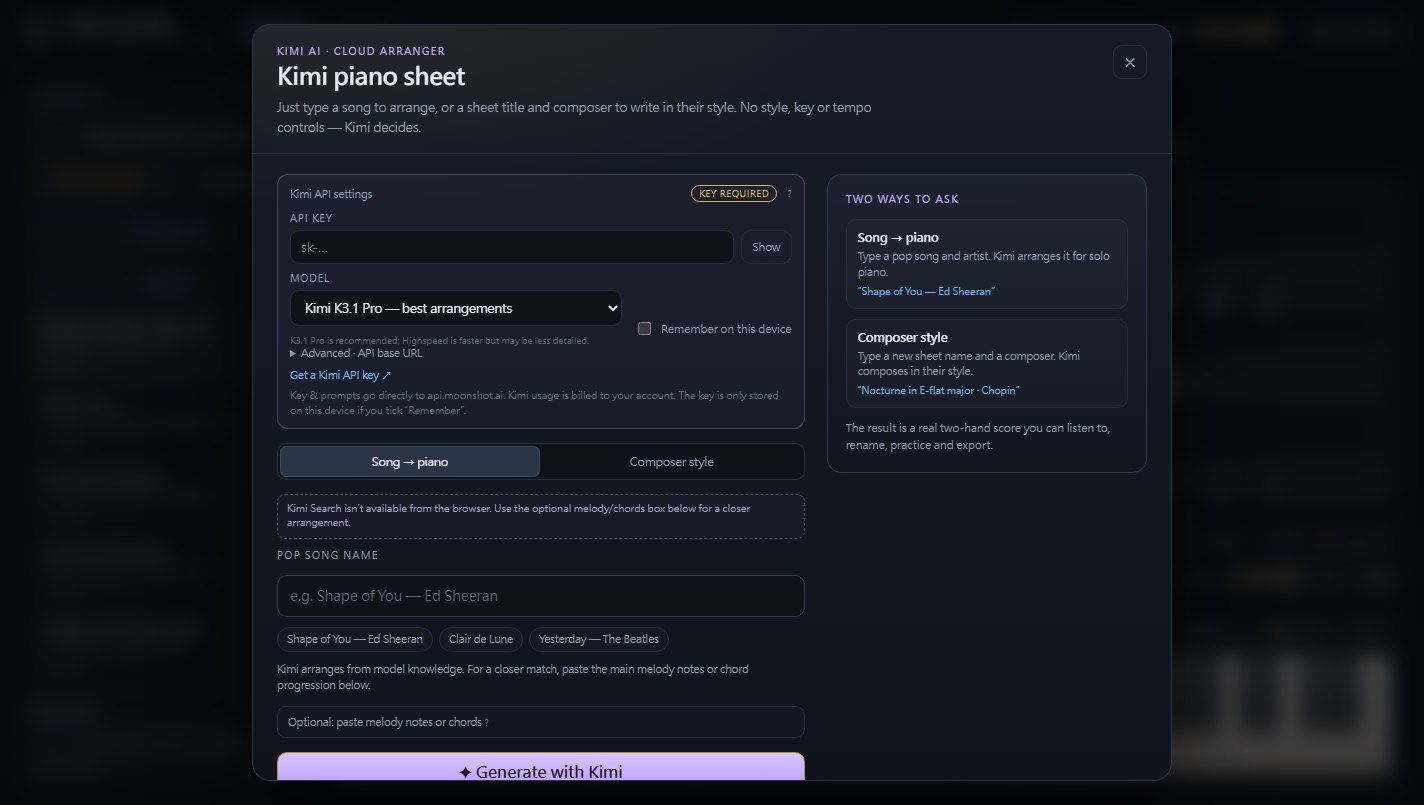
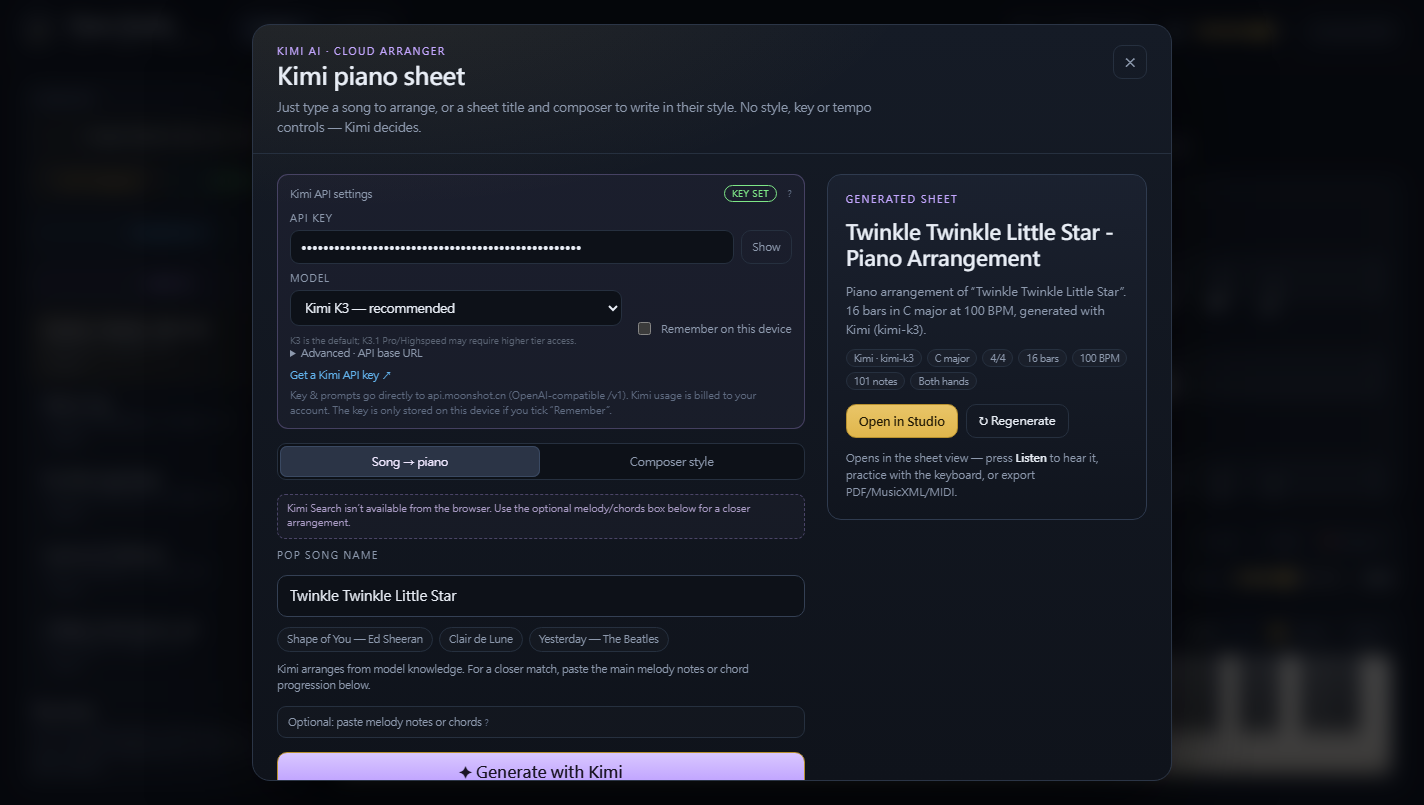
Configure Kimi for api.moonshot.cn and working K3 default
- Point Kimi at the OpenAI-compatible api.moonshot.cn/v1 endpoint
- Normalize Anthropic /anthropic/v1/messages URLs to /v1 because that endpoint
  is not browser-CORS-accessible
- Default to Kimi K3, which works with standard keys; keep K3.1 Pro/Highspeed
  and K2.6 selectable (K3.1 returned 429 on the test account)
- Longer Kimi timeout and lower reasoning effort
- Live-verified generation: 16-bar, 101-note Twinkle arrangement; 212 tests
- Updated screenshots, checksums and signed Android 1.1.0 artifacts

diff --git a/src/music/ai/kimi.ts b/src/music/ai/kimi.ts
@@ -15,18 +15,35 @@ import {
 
 export { DeepSeekError };
 
-export const KIMI_DEFAULT_BASE_URL = 'https://api.moonshot.ai/v1';
+export const KIMI_DEFAULT_BASE_URL = 'https://api.moonshot.cn/v1';
 
 export const KIMI_MODELS: ReadonlyArray<{ value: string; label: string }> = [
-  { value: 'kimi-k3.1-pro', label: 'Kimi K3.1 Pro — best arrangements' },
+  { value: 'kimi-k3', label: 'Kimi K3 — recommended' },
   { value: 'kimi-k3.1-pro-highspeed', label: 'Kimi K3.1 Pro Highspeed — faster' },
-  { value: 'kimi-k3', label: 'Kimi K3 — previous flagship' },
+  { value: 'kimi-k3.1-pro', label: 'Kimi K3.1 Pro — maximum detail (slower)' },
+  { value: 'kimi-k2.6', label: 'Kimi K2.6 — legacy' },
 ];
 
-export const KIMI_DEFAULT_MODEL = 'kimi-k3.1-pro';
+export const KIMI_DEFAULT_MODEL = 'kimi-k3';
 
 export type KimiConfig = DeepSeekConfig;
 export type KimiComposeOptions = DeepSeekComposeOptions;
+
+/**
+ * Kimi's Anthropic-compatible `/anthropic/v1/messages` endpoint is not
+ * browser-CORS-enabled. If that URL is pasted, use the equivalent
+ * OpenAI-compatible `/v1` base so browser generation still works.
+ */
+export function normalizeKimiBaseUrl(baseUrl: string | undefined): string {
+  const trimmed = baseUrl?.trim();
+  if (!trimmed) return KIMI_DEFAULT_BASE_URL;
+  const base = trimmed.replace(/\/+$/, '');
+  if (base.includes('/anthropic/')) {
+    const origin = /^(https?:\/\/[^/]+)/.exec(base)?.[1];
+    if (origin) return `${origin}/v1`;
+  }
+  return base;
+}
 
 export async function composeWithKimi(
   prompt: string,
@@ -36,7 +53,11 @@ export async function composeWithKimi(
 ): Promise<Awaited<ReturnType<typeof composeWithDeepSeek>>> {
   return composeWithDeepSeek(
     prompt,
-    { ...config, baseUrl: config.baseUrl?.trim() || KIMI_DEFAULT_BASE_URL },
+    {
+      ...config,
+      model: config.model?.trim() || KIMI_DEFAULT_MODEL,
+      baseUrl: normalizeKimiBaseUrl(config.baseUrl),
+    },
     options,
     externalSignal,
     'kimi',
@@ -44,8 +65,7 @@ export async function composeWithKimi(
 }
 
 function searchEndpointFor(baseUrl: string | undefined): string {
-  let base = (baseUrl?.trim() || KIMI_DEFAULT_BASE_URL).replace(/\/+$/, '');
-  base = base.replace(/\/chat\/completions$/, '');
+  const base = normalizeKimiBaseUrl(baseUrl).replace(/\/+$/, '');
   if (base.endsWith('/v1')) return `${base}/tools/search`;
   return `${base}/v1/tools/search`;
 }

diff --git a/src/music/ai/kimi.test.ts b/src/music/ai/kimi.test.ts
@@ -4,6 +4,7 @@ import {
   KIMI_DEFAULT_MODEL,
   DeepSeekError,
   composeWithKimi,
+  normalizeKimiBaseUrl,
   searchKimiReferences,
 } from './kimi';
 
@@ -73,13 +74,23 @@ describe('composeWithKimi', () => {
     expect(result.score.notes.length).toBeGreaterThan(20);
   });
 
-  it('defaults to Kimi K3.1 Pro', async () => {
+  it('defaults to Kimi K3', async () => {
     const fetchMock = mockChat(JSON.stringify(makeScoreJson()));
     const result = await composeWithKimi('Compose something.', { apiKey: 'sk-kimi-test' });
     const [, init] = fetchMock.mock.calls[0] as unknown as [string, RequestInit];
     const body = JSON.parse(init.body as string) as { model: string };
     expect(body.model).toBe(KIMI_DEFAULT_MODEL);
     expect(result.meta.model).toBe(KIMI_DEFAULT_MODEL);
+  });
+
+  it('normalizes an Anthropic Messages URL to the browser-safe OpenAI endpoint', () => {
+    expect(normalizeKimiBaseUrl('https://api.moonshot.cn/anthropic/v1/messages')).toBe(
+      'https://api.moonshot.cn/v1',
+    );
+    expect(normalizeKimiBaseUrl('https://api.moonshot.ai/v1')).toBe(
+      'https://api.moonshot.ai/v1',
+    );
+    expect(normalizeKimiBaseUrl(undefined)).toBe(KIMI_DEFAULT_BASE_URL);
   });
 
   it('maps Kimi API errors', async () => {

diff --git a/src/music/ai/deepseek.ts b/src/music/ai/deepseek.ts
@@ -507,7 +507,10 @@ export async function composeWithDeepSeek(
   const endpoint = endpointFor(config.baseUrl);
 
   const controller = new AbortController();
-  const timeout = window.setTimeout(() => controller.abort(), 180_000);
+  const timeout = window.setTimeout(
+    () => controller.abort(),
+    provider === 'kimi' ? 360_000 : 180_000,
+  );
   const onExternalAbort = () => controller.abort();
   externalSignal?.addEventListener('abort', onExternalAbort);
 
@@ -525,7 +528,7 @@ export async function composeWithDeepSeek(
           messages,
           response_format: { type: 'json_object' },
           max_completion_tokens: 32768,
-          ...(model.startsWith('kimi-k3.1') ? { reasoning_effort: 'low' } : {}),
+          ...(model.startsWith('kimi-k3') ? { reasoning_effort: 'low' } : {}),
           stream: false,
         }
       : {

diff --git a/src/music/ai/cloudProviders.ts b/src/music/ai/cloudProviders.ts
@@ -76,14 +76,14 @@ export const CLOUD_PROVIDERS: Record<CloudProviderId, CloudProviderConfig> = {
     subtitle:
       'Just type a song to arrange, or a sheet title and composer to write in their style. No style, key or tempo controls — Kimi decides.',
     keyLink: 'https://platform.kimi.ai/console/api-keys',
-    keyHost: 'api.moonshot.ai',
+    keyHost: 'api.moonshot.cn (OpenAI-compatible /v1)',
     defaultBaseUrl: KIMI_DEFAULT_BASE_URL,
     defaultModel: KIMI_DEFAULT_MODEL,
     models: KIMI_MODELS,
     compose: composeWithKimi,
     search: searchKimiReferences,
     searchName: 'Kimi Search',
-    modelHint: 'K3.1 Pro is recommended; Highspeed is faster but may be less detailed.',
+    modelHint: 'K3 is the default; K3.1 Pro/Highspeed may require higher tier access.',
     migrateFlash: false,
     supportsSearch: false,
   },

diff --git a/README.md b/README.md
@@ -70,12 +70,14 @@ sheets online**, and practice with two games. It also ships as a native **Androi
   - **Composer style**: type a sheet title and composer; Kimi writes an original piece using the
     built-in style briefs (Chopin, Bach, Mozart, Beethoven, Debussy, Satie, Liszt, Rachmaninoff,
     Brahms, Tchaikovsky, Joplin, Einaudi, Hisaishi, Yiruma and more).
-- **Kimi K3.1 Pro** is the default; **K3.1 Pro Highspeed** and **Kimi K3** are selectable. Kimi’s
-  Chat Completions endpoint supports browser CORS, so the key and prompt go directly to
-  `api.moonshot.ai`; usage is billed to your Kimi account.
+- **Kimi K3** is the default and works with standard API keys; **K3.1 Pro**, **K3.1 Pro Highspeed**
+  and **K2.6** are selectable (K3.1 may require higher account tier/rate limits). Browser requests
+  use Kimi’s OpenAI-compatible `https://api.moonshot.cn/v1` endpoint; if the Anthropic-compatible
+  `/anthropic/v1/messages` URL is pasted into Advanced settings it is normalized to `/v1` because
+  that endpoint is not browser-CORS-enabled. Usage is billed to your Kimi account.
 - Kimi’s standalone Search API is **not browser-CORS-enabled**, so the Kimi dialog does not offer
-  web lookup. Use the optional melody/chords box for a closer arrangement. Kimi K3.1 always reasons;
-  requests are capped at 16 bars and every returned score is validated locally.
+  web lookup. Use the optional melody/chords box for a closer arrangement. Kimi models reason during
+  generation; requests are capped at 16 bars and every returned score is validated locally.
 - Opened sheets get a purple **Kimi** badge. As with DeepSeek, a song title alone is not a guaranteed
   exact transcription — import a MIDI for exact notes.
 
@@ -158,8 +160,8 @@ Signed release artifacts are included in `release/` (gitignored build output):
 Package      com.pianostudio.app
 Version      1.1.0 (versionCode 6)
 Min SDK      24 (Android 7.0+), target SDK 36
-APK SHA-256  9575c5ff204d73debb82b5bc6281798223538493795ca044bc5ff159f4d0e13a
-AAB SHA-256  dca713df8be91324f78fb3e85f7221b4c639813267d1e6cfc9fb40fefc3cb728
+APK SHA-256  6e3b8d7a6bedbe719296a53b479a45a4ee4b5dbe100d6708d180151ba9c366c1
+AAB SHA-256  247292bb2a8f2248cf39ab137c026bec9a1b2e4798b7b56f791792393323ec14
 Cert SHA-256 8D:39:AE:54:D9:F8:40:71:B8:3F:0A:6E:B7:9C:56:1C:10:19:F1:A0:8A:9D:FB:93:BF:83:61:AC:7B:12:7A:EA
 ```
 
@@ -270,11 +272,13 @@ use the same mapping.
   Reference lookup improves matching but cannot guarantee an exact transcription of a copyrighted
   song; for exact notes, import a MIDI. Song arrangements are for personal practice; respect the
   original song’s copyright.
-- The **Kimi** dialog uses Kimi K3.1 Pro/Highspeed/K3 via `api.moonshot.ai` (Chat Completions CORS
-  verified). Kimi’s standalone Search API is not browser-CORS-enabled, so the Kimi dialog offers no
-  web lookup; use the optional pasted melody/chords. Kimi K3.1 always reasons, usage is billed to
-  your Kimi account, requests are capped at 16 bars, and returned scores are validated locally.
-  Kimi sheets get a **Kimi** badge.
+- The **Kimi** dialog uses Kimi K3 (default) or K3.1 Pro/Highspeed/K2.6 via the OpenAI-compatible
+  `api.moonshot.cn/v1` endpoint (Chat CORS verified). The Anthropic-compatible
+  `/anthropic/v1/messages` URL is normalized to `/v1` when pasted because it is not
+  browser-CORS-enabled. Kimi’s standalone Search API is also blocked in the browser, so the dialog
+  offers no web lookup; use the optional pasted melody/chords. Kimi models reason during generation,
+  usage is billed to your Kimi account, requests are capped at 16 bars, and returned scores are
+  validated locally. Kimi sheets get a **Kimi** badge.
 - Online search uses the **Wikimedia Commons** API (anonymous CORS, no key). MIDI results are
   downloadable and importable; PDF results open in a new tab. Files keep their Commons licences and
   imports are stored only in this browser. MuseScore/IMSLP links are external searches because those
@@ -304,7 +308,7 @@ Playback is a look-ahead scheduler: notes are scheduled into the AudioContext ~0
 
 ## Verification
 
-- **211 unit tests across 21 files** cover timing/tempo math, pitch/key signatures, score
+- **212 unit tests across 21 files** cover timing/tempo math, pitch/key signatures, score
   normalisation, recording quantization, MIDI/MusicXML round-trips, `.mxl` import, VexFlow layout
   helpers, audio voice/engine behaviour, AI composition/prompt parsing, DeepSeek/Kimi response
   validation and request shapes, DeepSeek Search references/style guides, online Commons
@@ -323,12 +327,12 @@ Playback is a look-ahead scheduler: notes are scheduled into the AudioContext ~0
   without an unnecessary search. The real Chat and Search endpoints were also called from the
   browser with an invalid key: both are CORS-readable, return 401, and the UI shows the “API key
   rejected” message. No real key is stored in the repo.
-- **Kimi mode** was verified in headless Chrome with mocked Kimi Chat completions: the dialog used
-  `api.moonshot.ai/v1/chat/completions`, `kimi-k3.1-pro`, JSON mode, `max_completion_tokens` and no
-  temperature/thinking fields, passed the pasted melody into the prompt, and produced a Kimi-badged
-  score. Kimi’s Chat endpoint is browser-CORS-readable (401 verified); its standalone Search
-  preflight is blocked, so the Kimi UI intentionally uses the manual melody/chords reference box
-  instead.
+- **Kimi mode** was verified with mocked Kimi Chat completions (request shape, JSON mode,
+  `max_completion_tokens`, manual reference) and then with a **live Kimi K3 call** against
+  `api.moonshot.cn/v1`: “Twinkle Twinkle Little Star” produced a 16-bar, 101-note two-hand Kimi sheet
+  with the Kimi badge. K3.1 Pro/Highspeed returned 429 on the test account, which is why K3 is the
+  default. The Anthropic `/anthropic/v1/messages` browser preflight is blocked, so the UI normalizes
+  that URL to `/v1` and does not offer Kimi Search. No API key is stored in the repo.
 - **PDF export** was exercised in headless Chrome with a deliberately dense, chromatic 336-note score:
   the adaptive layout switched to one measure per system and produced 5 readable A4 pages with no
   notes cut at system/page boundaries. A normal 189-note sheet exported as a 2-page PDF. Rendering
